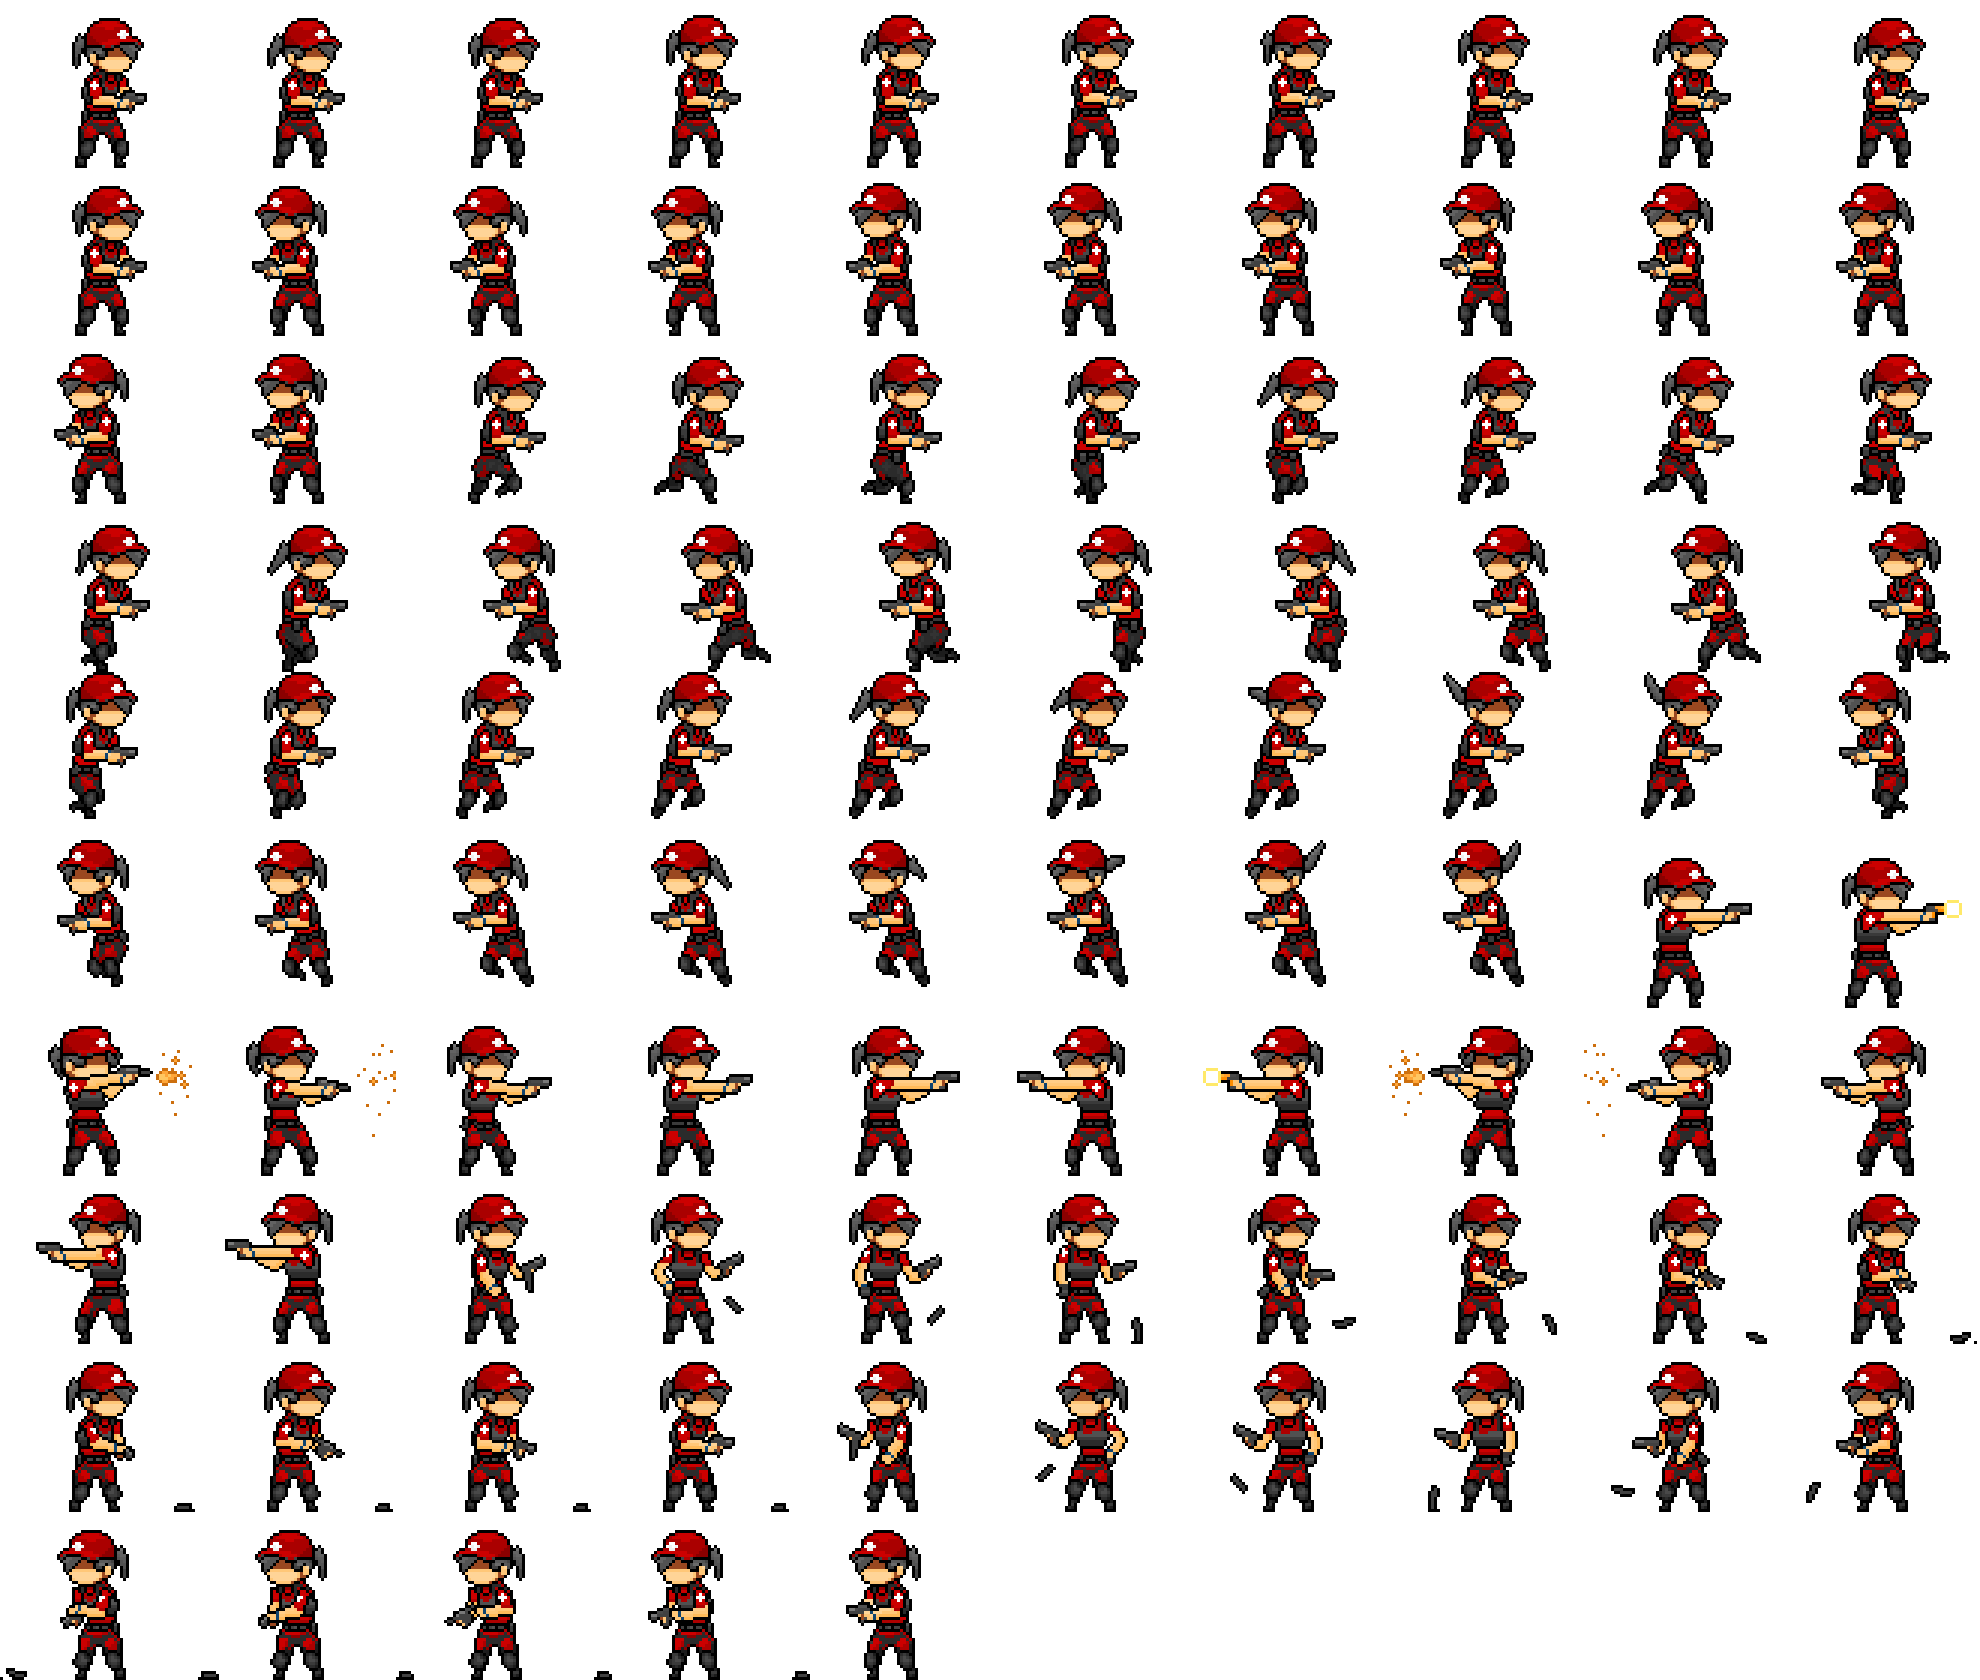
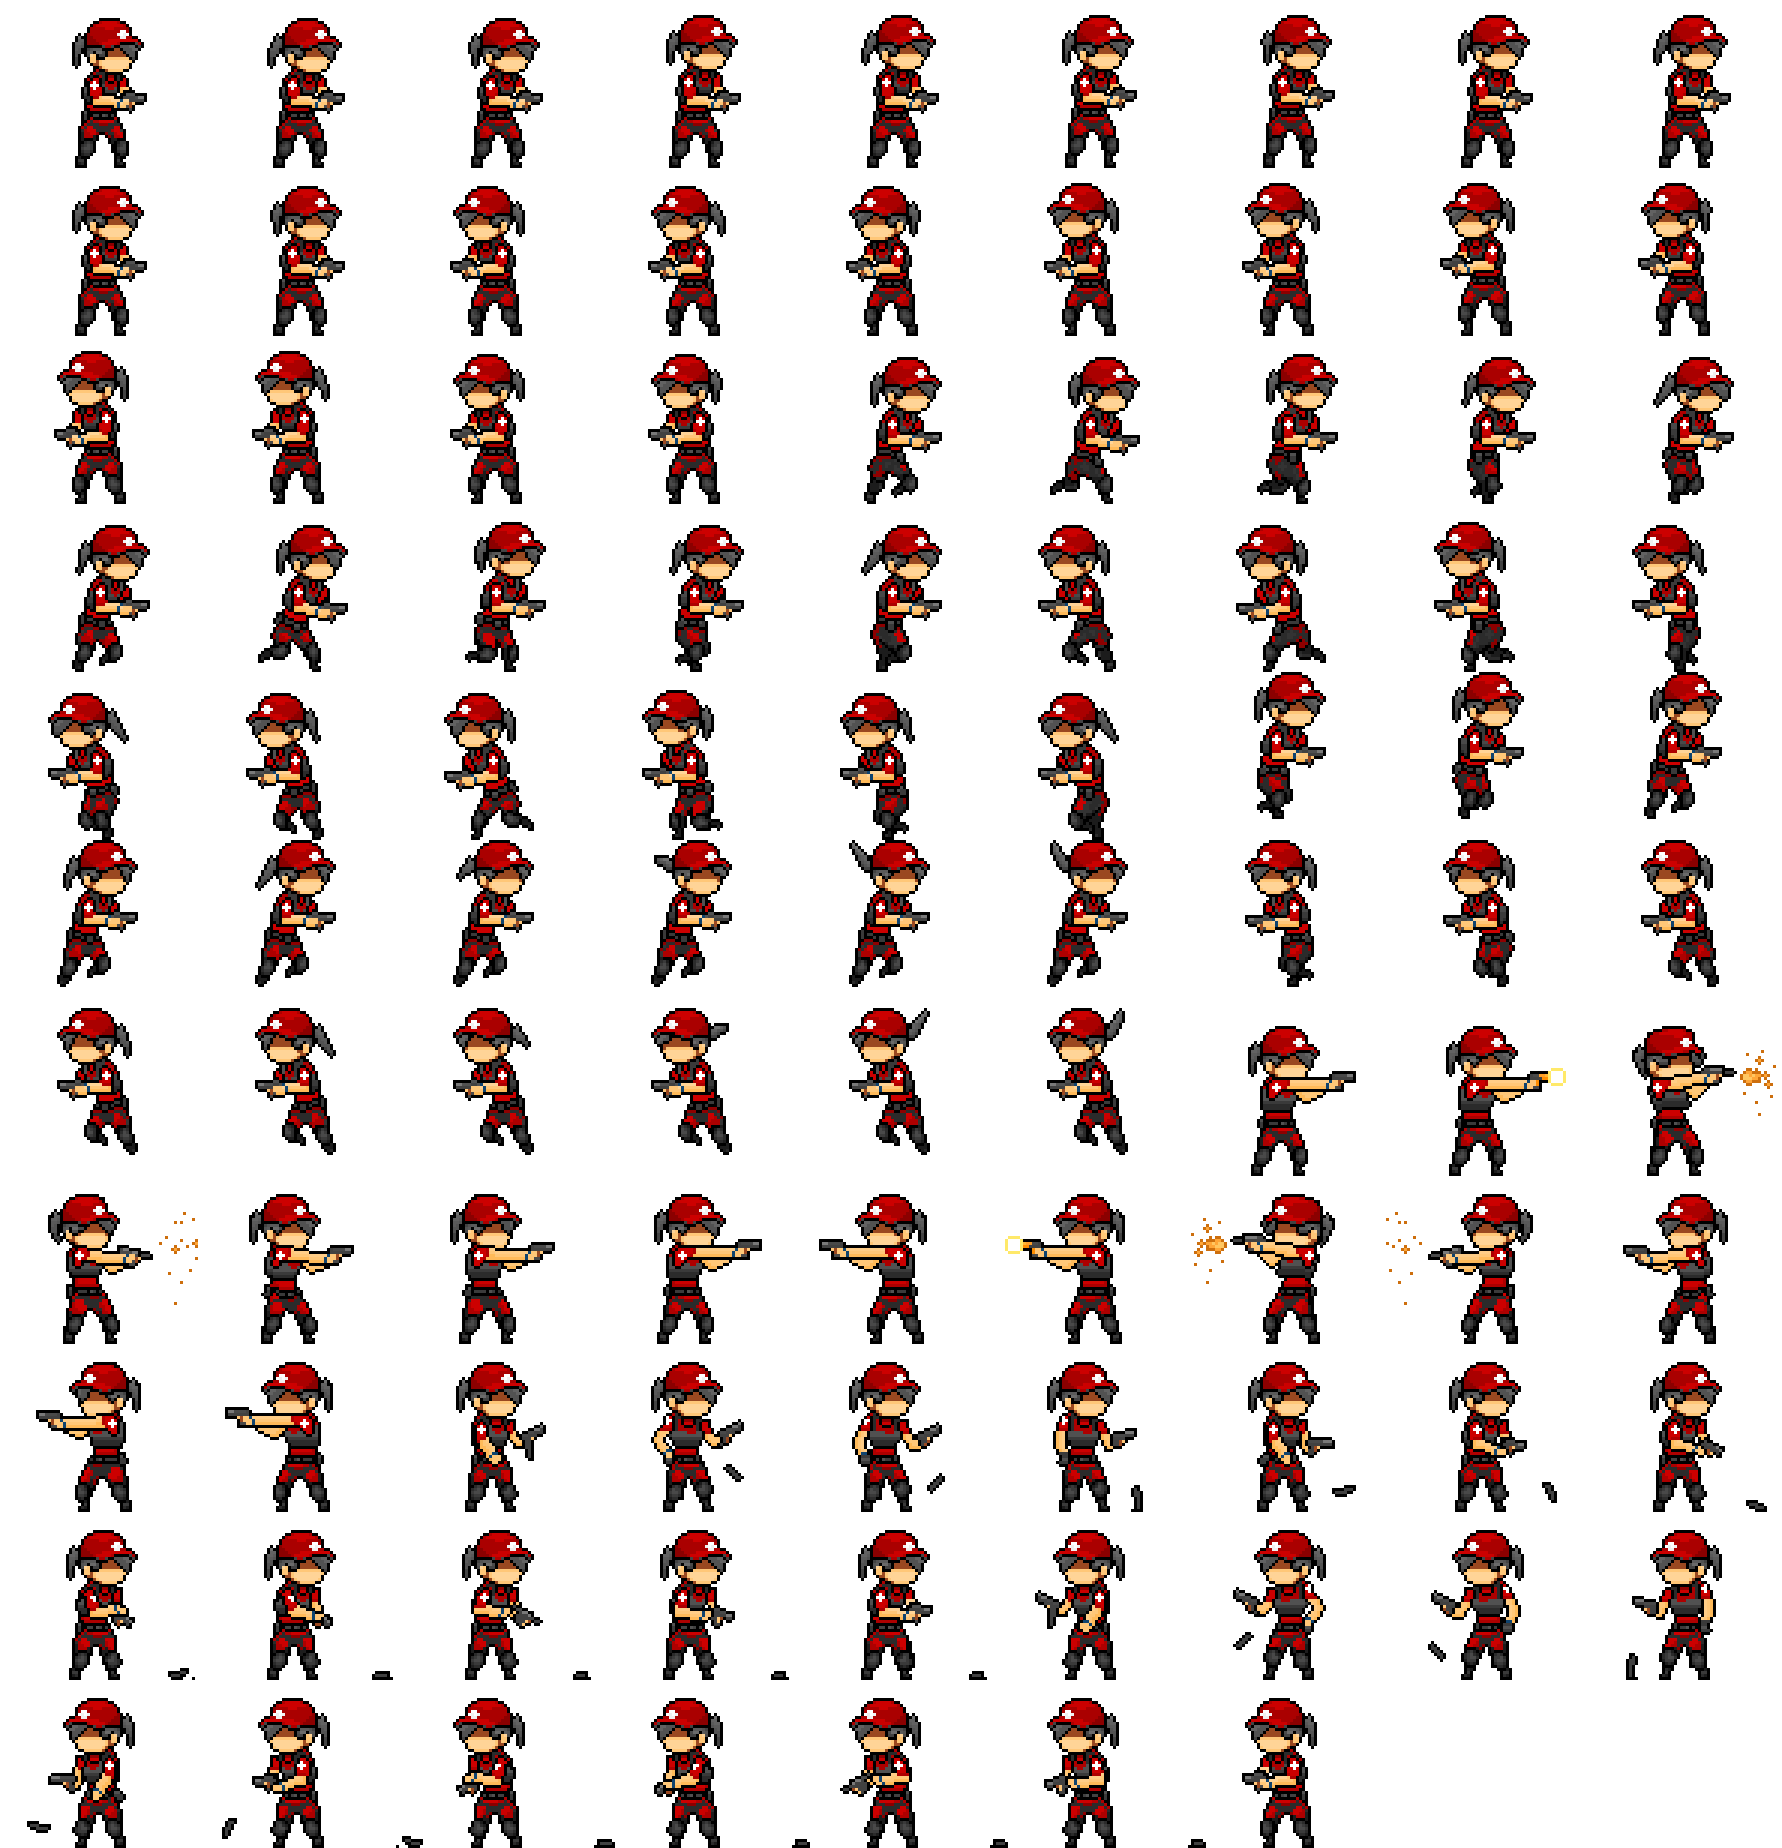
new update

diff --git a/js/states/running.js b/js/states/running.js
@@ -16,22 +16,17 @@ function running(game) {
 
     function preload() {
         game.load.image('city', 'assets/CITY.png');
+        game.load.image('sidewalk', 'assets/sidewalk.png');
         game.load.image('Stuff', 'assets/Stuff.png');
         game.load.image('smalls', 'assets/smalls.png');
         game.load.image('jet', 'assets/jet.png');
-        game.load.image('star', 'assets/star.png');
-        game.load.image('free', 'assets/free.png');
-        game.load.spritesheet('Running', 'assets/Runstand.png', 50, 50);
         game.load.spritesheet('betcat', 'assets/betcat.png', 198, 168);
-        game.load.spritesheet('clone', 'assets/clone.png', 100, 100);
-        game.load.spritesheet('pop', 'assets/clone.png', 160, 160);
-
-
-
+        game.load.spritesheet('car', 'assets/car.png', 992, 336);
+     
     }
 
     function create() {
-        game.world.setBounds(0, 0, 1920, 600);
+        game.world.setBounds(0, 0, 6400, 600);
         game.add.sprite(0, 50, 'city');
 
 
@@ -41,9 +36,10 @@ function running(game) {
         melee.animations.add('', [0, 1, 2 , 3, 4, 5, 6, 7, 8, 9, 10, 11, 12, 13, 14, 15, 16, 17], 12, true);
         melee.animations.play('');
 
-        var shoot = game.add.sprite(100, 100, '');
-        shoot.animations.add('', [0, 1, 2 , 3, 4, 5, 6, 7], 14, true);
-        shoot.animations.play('');
+        var melee = game.add.sprite(5400, 250, 'car');
+        var walk = melee.animations.add('car');
+        melee.animations.add('car', [0, 1, 2 , 3, 4, 5], 12, true);
+        melee.animations.play('car');
 
        
 
@@ -53,20 +49,20 @@ function running(game) {
         */
 
         platforms = game.add.physicsGroup();
-        platforms.create(1200, 500, 'smalls');
-        platforms.create(1200, 500, 'smalls');
-        platforms.create(650, 645, 'smalls');
-        platforms.create(400, 450, 'smalls');
-        platforms.create(550, 450, 'smalls');
-        platforms.create(600, 450, 'smalls');
-        platforms.create(400, 450, 'smalls');
-        platforms.create(00, 450, 'smalls');
-        platforms.create(650, 450, 'smalls');
-        platforms.create(200, 400, 'smalls');
-        platforms.create(400, 300, 'smalls');
-        platforms.create(600, 230, 'smalls');
-        platforms.create(1300, 400, 'smalls');
-        platforms.create(1000, 340, 'smalls');
+         platforms.create(5400, 250, 'car');
+        platforms.create(0, 500, 'Stuff');
+        platforms.create(500, 500, 'Stuff');
+        platforms.create(1000, 500, 'Stuff');
+        platforms.create(1500, 500, 'Stuff');
+        platforms.create(2000, 500, 'Stuff');
+        platforms.create(2500, 500, 'Stuff');
+        platforms.create(3000, 500, 'Stuff');
+        platforms.create(3500, 500, 'Stuff');
+        platforms.create(4000, 500, 'Stuff');
+        platforms.create(4500, 500, 'Stuff');
+        platforms.create(5000, 500, 'Stuff');
+        platforms.create(5500, 500, 'Stuff');
+        platforms.create(6000, 500, 'Stuff');
 
 
 
@@ -107,21 +103,9 @@ function running(game) {
 
 
 
-        platforms.create(650, 645, 'smalls');
-        platforms.create(600, 680, 'Stuff');
-        platforms.create(200, 680, 'Stuff');
-        platforms.create(0, 680, 'Stuff');
-        platforms.create(400, 680, 'Stuff');
-        platforms.create(800, 680, 'Stuff');
-        platforms.create(800, 600, 'Stuff');
-        platforms.create(1000, 520, 'Stuff');
-        platforms.create(1000, 520, 'Stuff');
-        platforms.create(1200, 520, 'Stuff');
-        platforms.create(800, 300, 'Stuff');
         /*
         * Spawn
         */
-        platforms.create(0, 500, 'smalls');
 
         platforms.setAll('body.allowGravity', false);
         platforms.setAll('body.immovable', true);
@@ -136,23 +120,24 @@ function running(game) {
 
 
 
-        player = game.add.sprite(32, game.world.height - 300, 'betcat');
+        player = game.add.sprite(32, game.world.height - 600, 'betcat');
         game.physics.arcade.enable(player);
-        player.body.setSize(30, 30, 10, 10);
-        player.animations.add('left', [32, 33, 34, 35, 36, 37, 38, 39], 12, true);
-        player.animations.add('right', [22, 23, 24, 25, 26, 27, 28, 29, 30, 31], 12, true);
-        player.animations.add('idleleft', [11, 12, 13, 14, 15, 16, 17, 18, 19, 20, 21], 8, true);
+        player.body.setSize(150, 150, 10, 10);
         player.animations.add('idleright', [0, 1, 2, 3, 4, 5, 6, 7, 8, 9, 10], 8, true);
-        player.animations.add('jumpright', [40, 41, 42, 43, 44, 45, 46, 47, 48, 47, 48, 47, 48], 8, false);
-        player.animations.add('fallright', [43, 44, 45, 46 , 47], 8, false);
-        player.animations.add('jumpleft', [49, 50, 51, 52, 53, 54, 55, 56, 57, 56 ,57, 56, 57], 8, false);
-        player.animations.add('fallleft', [52, 53, 54, 55, 56, 57], 8, false);
-        player.animations.add('shootleft', [48, 49, 50, 51, 52, 53, 54,], 8, false);
+        player.animations.add('idleleft', [11, 12, 13, 14, 15, 16, 17, 18, 19, 20, 21], 8, true);
+        player.animations.add('right', [22, 23, 24, 25, 26, 27, 28, 29, 30, 31], 12, true);
+        player.animations.add('left', [32 ,33 ,34 ,35 ,36 ,37 ,38 ,39, 41], 12, true);
+        player.animations.add('jumpright', [42,43, 44, 45, 46, 47, 48, 49, 50, 49, 50, 49, 50], 8, false);
+        player.animations.add('fallright', [45, 46, 47, 48, 49, 50, 49, 50, 49, 50], 8, false);
+        player.animations.add('jumpleft', [51, 52, 53, 54, 55, 56, 57, 58, 59, 58, 59, 58, 59], 8, false);
+        player.animations.add('fallleft', [54, 55, 56, 57, 58, 59, 58, 59, 58, 59], 8, false);
+        player.animations.add('shootright', [60, 61, 62, 63, 64, 65, 66], 8, false);
+        player.animations.add('shootleft', [], 8, false);
 //        player.body.setSize(20, 30, 20, 10);
 
 
         player.body.bounce.y = 0;
-        player.body.gravity.y = 400;
+        player.body.gravity.y = 600;
 
         cursors = game.input.keyboard.createCursorKeys();
         game.camera.follow(player);
@@ -213,10 +198,10 @@ function running(game) {
         if (player.body.touching.down) {
             if (cursors.up.isDown) {
                 //jump
-                if (playerState == "WALK_LEFT" || playerState == "IDLELEFT") {
+                if (playerState == "WALK_LEFT" || playerState == "IDLELEFT" || playerState == "AIR_LEFT") {
                     playerState = "JUMP_LEFT";
                 }
-                else if (playerState == "WALK_RIGHT" || playerState == "IDLERIGHT"){
+                else if (playerState == "WALK_RIGHT" || playerState == "IDLERIGHT" || playerState == "AIR_RIGHT"){
                     playerState = "JUMP_RIGHT"
                 }
             } else if (cursors.right.isDown) {
@@ -235,9 +220,13 @@ function running(game) {
                 }
             }
         } else {
-            
-            //what happens if the player is not on the ground?
-            
+      //what happens if the player is not on the ground?
+           if (playerState == "WALK_LEFT" || playerState == "IDLELEFT") {
+               playerState = "AIR_LEFT";
+            }
+            else if (playerState == "WALK_RIGHT" || playerState == "IDLERIGHT"){
+                playerState = "AIR_RIGHT"
+                }
         }
         
     
@@ -260,31 +249,34 @@ function running(game) {
                 break;
 
             case "WALK_LEFT":
-                player.body.velocity.x = -150;
+                player.body.velocity.x = -800;
                 player.animations.play('left');
                 break;
 
             case "WALK_RIGHT":
-                player.body.velocity.x = 150;
+                player.body.velocity.x = 800;
                 player.animations.play('right');
                 
                 break;
 
             case "JUMP_RIGHT":
                 if (player.body.velocity.y == 0) {
-                    player.body.velocity.y -= 300;
+                    player.body.velocity.y -= 400;
                 }                
                 player.animations.play('jumpright')
                 break;
                 
             case "JUMP_LEFT":
                 if (player.body.velocity.y == 0) {
-                    player.body.velocity.y -= 300;
+                    player.body.velocity.y -= 400;
                 }
                 player.animations.play('jumpleft')
                 break;
                 
             case "AIR_RIGHT":
+                if (player.body.velocity.y == 400) {
+                    player.body.velocity.y -= 0;
+                }
                 player.animations.play('fallright')
                 break;
                 
